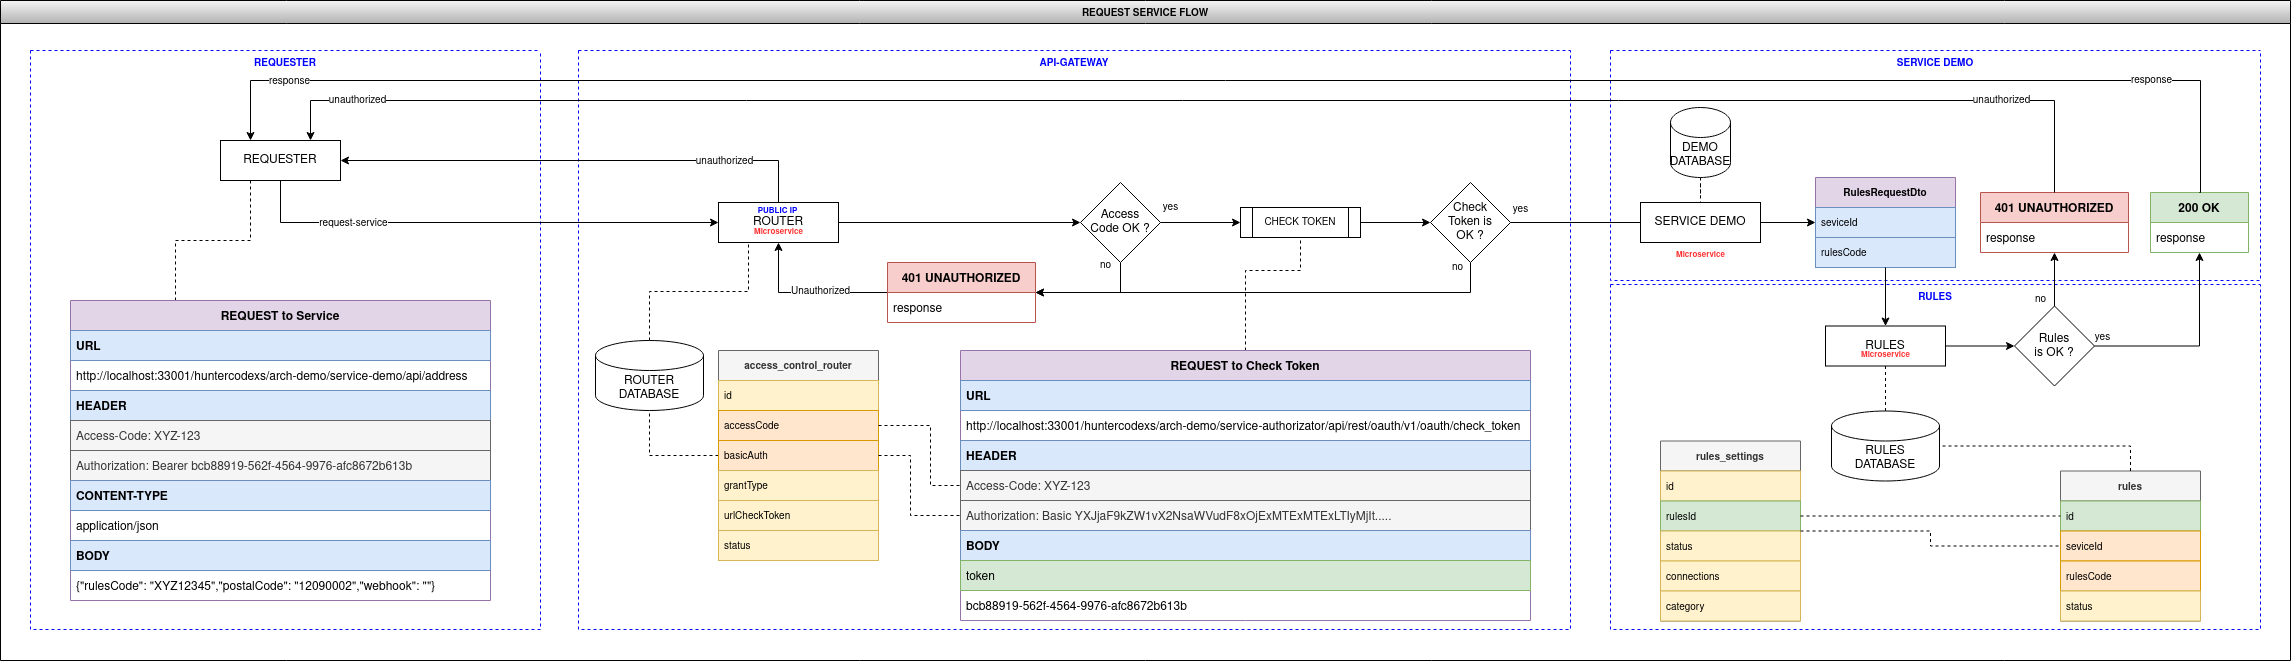
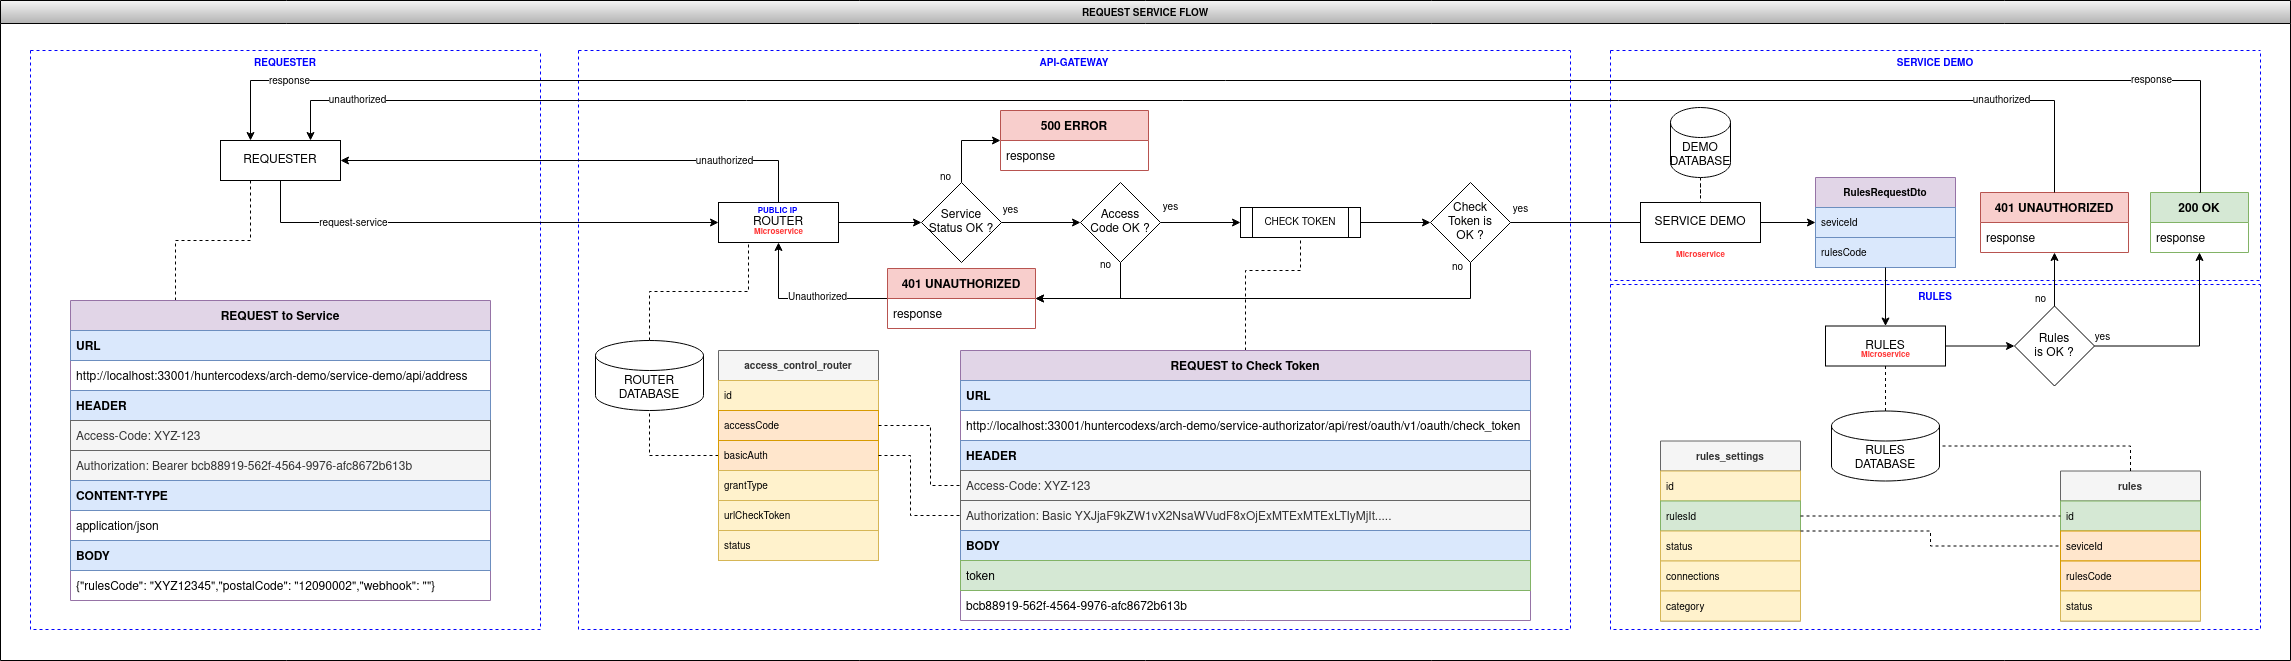
update: README information about SERVICE-ROUTER process

Changed region(s): [[0.3409, 0.3933, 0.4959, 0.4841], [0.4339, 0.1513, 0.5268, 0.2421], [0.4029, 0.3026, 0.4339, 0.3631]]

diff --git a/README.md b/README.md
@@ -187,7 +187,7 @@ devidamente aplicadas.
 
 A seguir temos um detalhamento mais profundo do ambiente, tendo uma visão mais ampla de como estão organizados os 
 serviços e operações, quais são as entidades (models) de cada serviço e uma representação simbólica do banco de dados. 
-Podemos ver que cada serviço esta separado por sua função espeficica e possui uma base de dados propria, assim como 
+É possível ver que cada serviço está separado por sua função espeficica e possui uma base de dados propria, assim como 
 recursos externos ou adjacentes referentes a uma unica unidade de trabalho. 
 
 > Details
@@ -201,6 +201,14 @@ do ambiente orientado a micro-serviços ARCH-DEMO.
 
 ![img.png](midias/Compact.png)
 
+> Router Details
+
+O diagrama de sequência abaixo ilustra como o serviço roteador de requisições REST atua de modo a verificar se os serviços 
+estão realmente disponíveis antes mesmo de encaminhar a requisição para seu destino. A etapa Check Service Status é 
+automaticamente executada no SERVICE-ROUTER quando uma requisição chega até ele, sendo de facil entendimento ou 
+compreensão seu funcionamento mediante, análise do código-fonte.
+
+![img.png](midias/Sequence-Diragram-Router-Details.png)
 
 # Diagrama de Sequencia
 
@@ -353,7 +361,6 @@ que as regras de negocio sejam validadas corretamente.
 > SERVICE-DEMO
 
 Service de exemplo para consultar endereços via Correios com um CEP qualquer
-
 
 # TODO
 

diff --git a/README-EN.md b/README-EN.md
@@ -201,6 +201,14 @@ of the ARCH-DEMO micro-services oriented environment.
 
 ![img.png](midias/Compact.png)
 
+> Router Details
+
+The sequence diagram below illustrates how the REST request router service works in order to verify that the services
+are actually available even before forwarding the request to its destination. The Check Service Status step is
+automatically executed in the SERVICE-ROUTER when a request arrives at it, being easy to understand or
+understanding its operation through analysis of the source code.
+
+![img.png](midias/Sequence-Diragram-Router-Details.png)
 
 # Sequence Diagram
 
